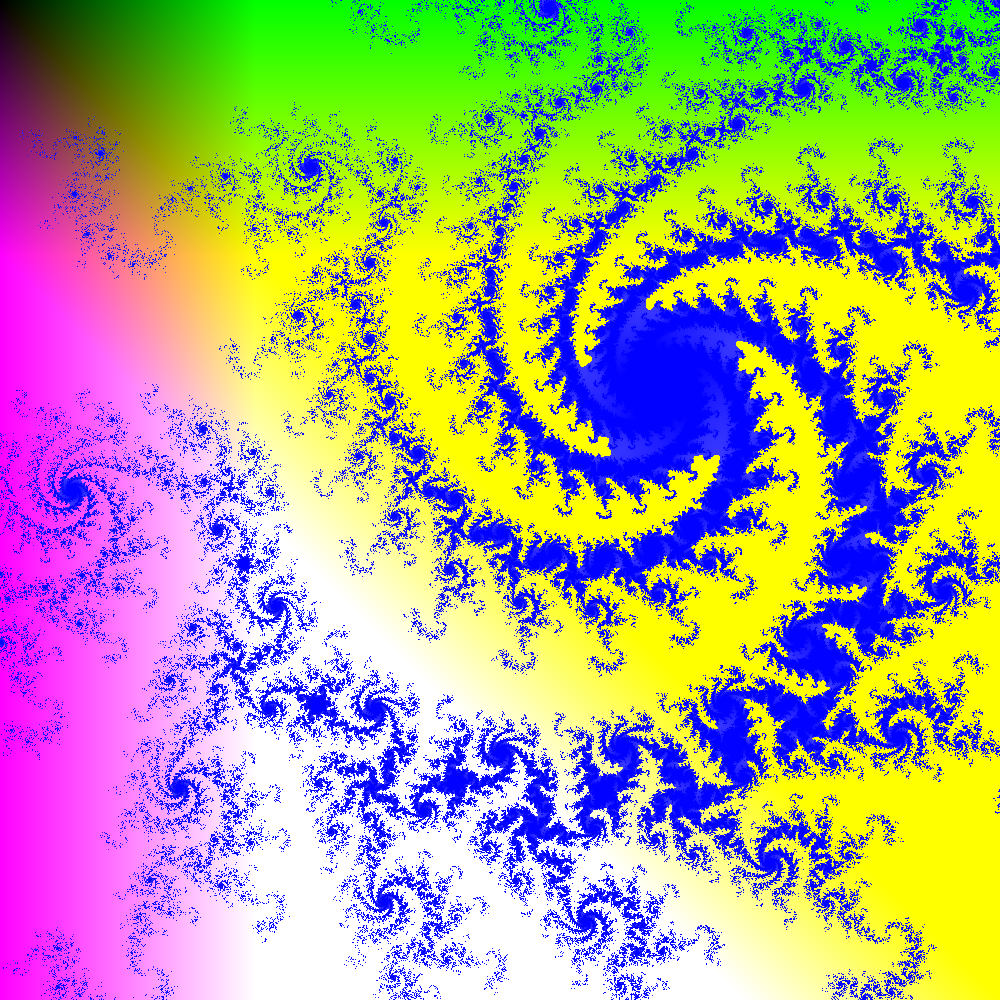
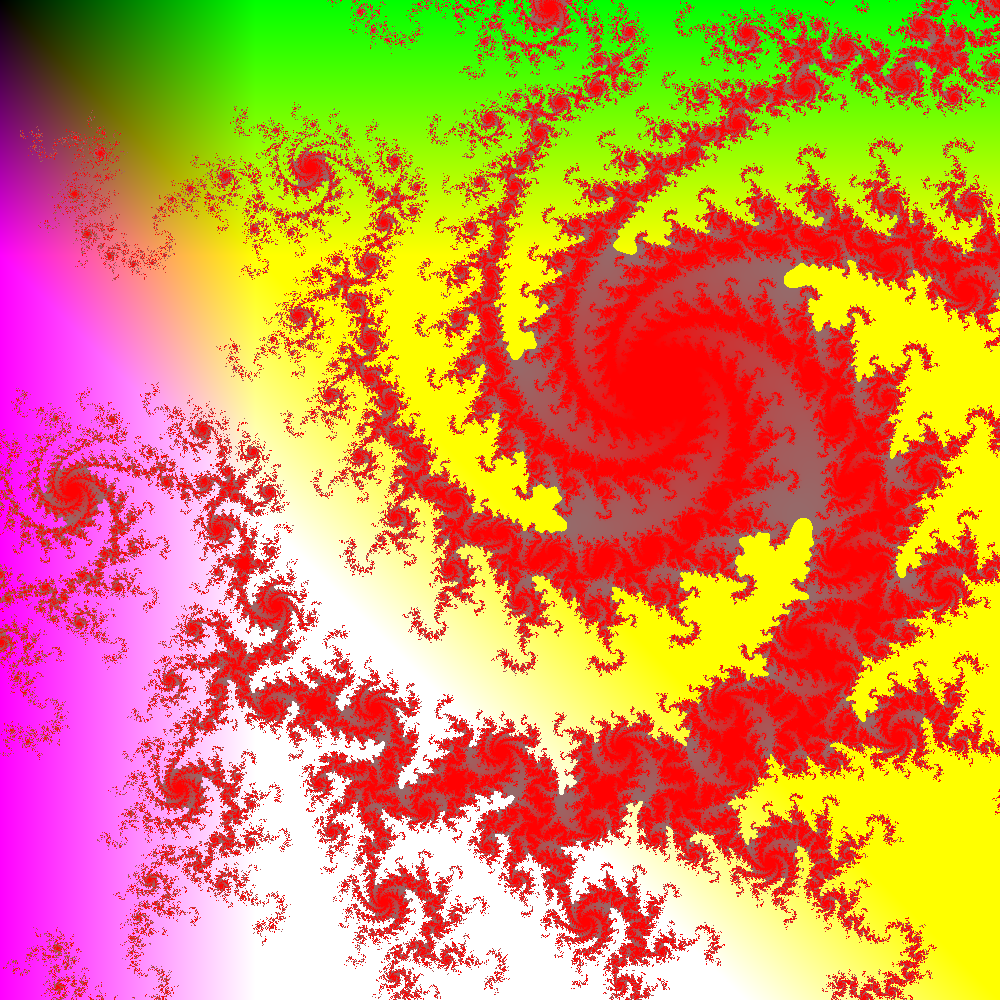
,

diff --git a/Mandlebrot_Project/Mandlebrot_Julia_Project.py b/Mandlebrot_Project/Mandlebrot_Julia_Project.py
@@ -1,9 +1,6 @@
 # Name: Justin Lin
-# Date: 10/17/2018
-# Description: Mandlebrot
-# Source(s): 
-
-# from PIL import Image as i
+# Date: 10/24/2018
+# Source(s): None
 	
 def mandlebrot_1():
 	from PIL import Image as i
@@ -11,13 +8,9 @@ def mandlebrot_1():
 	ya, yb = -0.6723, -0.6402
 
 	img_sizex = 1000
-	img_sizey = 1000
-
-	counts = 10
-	pixeled = []
+	img_sizey = 1000 
 
 	maxtries = 256
-	a = 0
 	b = 0
 	c = 0
 
@@ -51,13 +44,9 @@ def mandlebrot_2():
 	ya, yb = 0.2396, 0.2415
 
 	img_sizex = 1000
-	img_sizey = 1000
-
-	counts = 10
-	pixeled = []
+	img_sizey = 1000 
 
 	maxtries = 256
-	a = 0
 	b = 0
 	c = 0
 
@@ -74,13 +63,11 @@ def mandlebrot_2():
 					break
 				z = z**2 + c
 
-			r = 256-i
-			b = i+256
-			if b >= 256:
-				b = b - i
+			r = i
+			b = 256-i
 			g = 256-i
 			image.putpixel((x,y),(r, g, b))
-			if i < 200:
+			if i < 150:
 				image.putpixel((x,y), (y,x,y-x))
 	image.show("Mandlebrot_2", "PNG")
 	image.save("Mandlebrot_2.png", "PNG")
@@ -94,9 +81,6 @@ def julia():
 
 	img_sizex = 1000
 	img_sizey = 1000
-
-
-	pixeled = []
 
 	maxtries = 256
 

diff --git a/Mandlebrot.py b/Mandlebrot.py
@@ -12,32 +12,28 @@ image = i.new("RGB", (img_sizex, img_sizex))
 n = img_sizex
 
 
-def Mandlebrot(z, c, n):
+def z(n):
+
+	if z(0):
+		return n
 	
-	z(0) = 0
-
-	z(1) = c
-
-	z(2) = z(1)**2 + c
-
+	
 	z(n+1) = z(n)**2+c
 
-	xy = z(n) 
 	absoluteZ == sqrt((x**2)+(y**2))
 
 #imag.putpixel( (x, y),(255 ,0 ,0 ) )
 
 
-def z(n)
-	for x in range(img_sizex):
-		for y in range(img_sizex):
+for x in range(img_sizex):
+	for y in range(img_sizex):
 
-			c == (-2 + ((2/(img_sizex//2))*x), -2 + ((2/(img_sizex//2))*y))
+		c == (-2 + ((2/(img_sizex//2))*x), -2 + ((2/(img_sizex//2))*y))
 
-			# while z < img_sizex:
+		# while z < img_sizex:
 
-			z(n+1) = z(n)**2 + c
-	Mandlebrot(z, c, n)
+		z(n+1) = z(n)**2 + c
+
 
 
 

diff --git a/Checker_Board.py b/Checker_Board.py
@@ -24,9 +24,9 @@ while a > 0:
 	for g in range(int(limit//2)):
 		for x in range(b*(int(img_sizex/8)), a*(int(img_sizex/8))):
 			for y in range(int(img_sizey/8)*int(c[g]), int(img_sizey/8)*int(z[g])):
-				imag.putpixel((x,y),(255,0,0))
+				imag.putpixel((x,y),(255,255,255))
 		for y in range(b*(int(img_sizex/8)), a*(int(img_sizex/8))):
 			for x in range(int(img_sizey/8)*int(c[g]), int(img_sizey/8)*int(z[g])):
-				imag.putpixel((x,y),(255,0,0))
+				imag.putpixel((x,y),(255,255,255))
 
 imag.save("Checker_Board.png", "PNG")

diff --git a/Julia_Set.py b/Julia_Set.py
@@ -20,9 +20,9 @@ maxtries = 256
 image = i.new("RGB", (img_sizex, img_sizex))
 
 for y in range(img_sizey):
-	yz = y * (yb-ya)/(img_sizey-1) + ya
+	yz = yb + ((img_sizey/((yb-ya)/2))*y)
 	for x in range(img_sizex):
-		xz = x * (xb-xa)/(img_sizex-1) + xa
+		xz = xb + ((img_sizex/((xb-xa)/2))*x)
 		z = complex(xz, yz)
 		c = complex( -0.334,0.626)
 		for i in range(maxtries):
